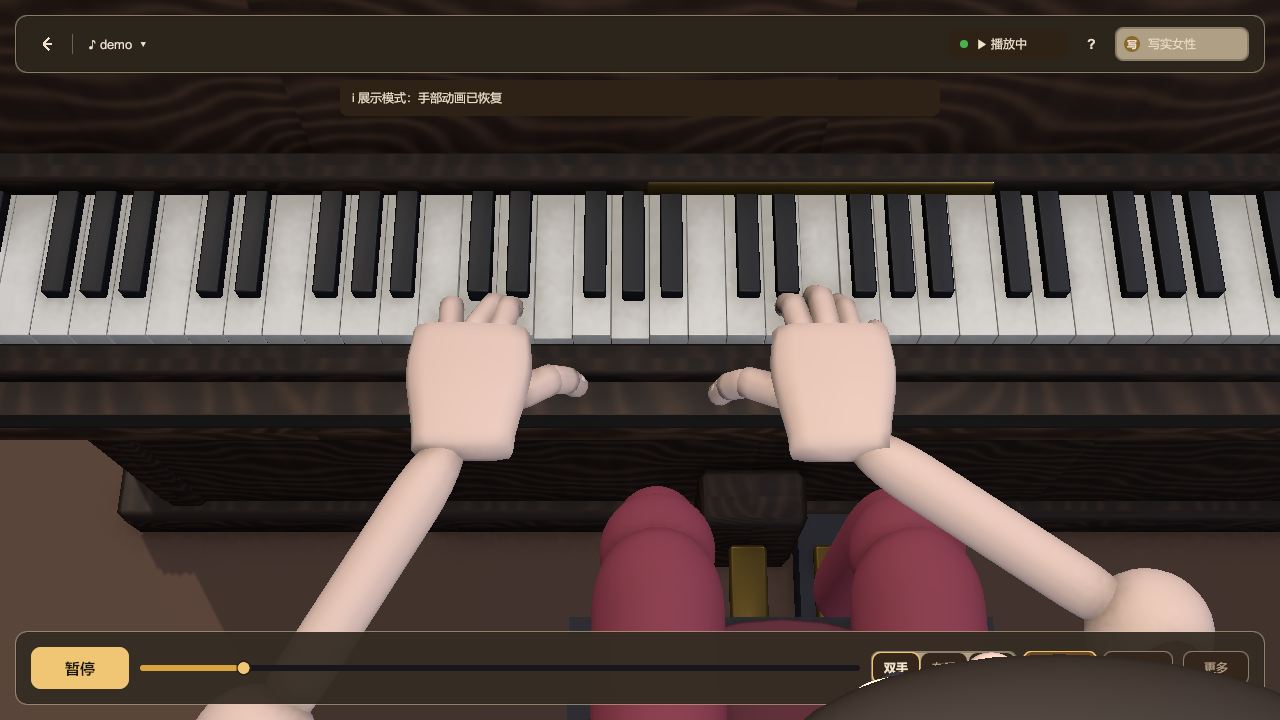
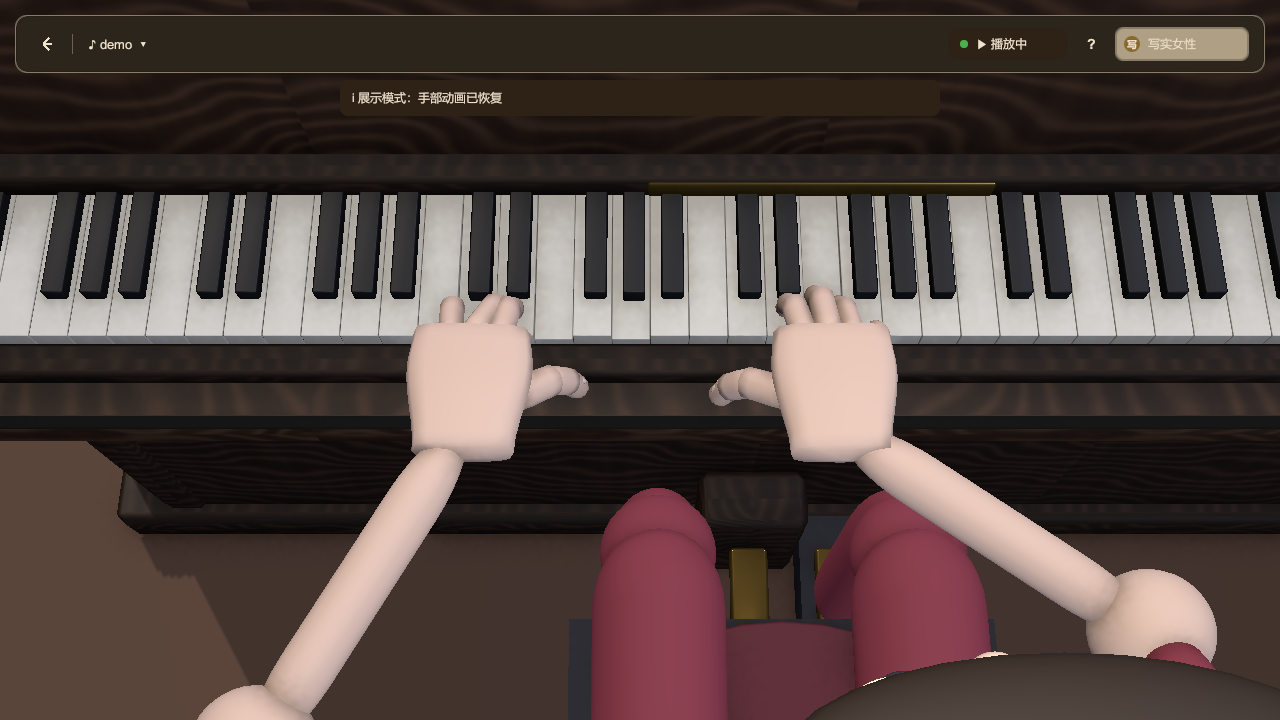
docs(hands): 记录 H0 追加的两次证伪与耦合结论
- 掌位竖直修正（MaxPalmCorrectionY 22mm）：R2 20.9→24.6mm、R4 −0.3→+5.9mm，更差，随实验回退；
- 黑键抬手（BlackKeyHandLift 11mm）：R2 20.9→21.0mm，无效，参数保留默认 0 并在注释记数据；
- 累计四条假说被否（铰链平面/黑键指腹抬升/掌位竖直修正/黑键抬手），
  说明问题不在比例控制层，而在「先定掌位再解指骨」的顺序：H3 必须做解析式最小二乘，不能做增益闭环。

验证：EditMode 485/485、PlayMode 131 过 / 5 跳 / 0 败。

diff --git a/Assets/Scripts/Avatar/HandIKController.cs b/Assets/Scripts/Avatar/HandIKController.cs
@@ -143,6 +143,12 @@ namespace PianoTeacher3D.Avatar
         public float PalmCorrectionSpeed = 14f;
         /// <summary>手掌修正增益（0..1）：把平均误差的多少比例用于平移手掌。</summary>
         [Range(0f, 1f)] public float PalmCorrectionGain = 0.8f;
+        /// <summary>
+        /// 手掌修正的竖直上限（米）。手掌修正原本只修 XZ，竖直误差全留给手指弯曲；
+        /// 但实测竖直分量占绝对主导（20.9 mm 里 20.5 mm），手指靠弯曲解不出来。
+        /// 这里给竖直分量一个更小的独立上限，避免把手腕抬到手指够不到键面。
+        /// </summary>
+        public float MaxPalmCorrectionY = 0.022f;
         public float TargetMaxSpeed = 4.0f;       // 大跳变时的目标变化速率上限（米/秒）；0 = 不限速
         public float TargetJumpThreshold = 0.20f; // 目标变化小于该值（同手位内旋律跳进）时直接精确对齐
 
@@ -239,6 +245,8 @@ namespace PianoTeacher3D.Avatar
         /// </para>
         /// </summary>
         public float BlackKeyTargetLift = 0f;
+        /// <summary>按住黑键时抬腕的高度（米）：黑键键面比白键高 22 mm，试 11 mm 实测无效（R2 残差 20.9→21.0 mm），默认关。</summary>
+        public float BlackKeyHandLift = 0f;
 
         private const int MaxRecordedIssues = 8;
 
@@ -811,6 +819,11 @@ namespace PianoTeacher3D.Avatar
             if (WristHeightAdaptation)
                 rawTarget.y += leftHand ? _leftWristHeightAdapt : _rightWristHeightAdapt;
 
+            // 黑键抬手（H4-lite，2026-11-05）：黑键键面比白键高 22 mm，实测按住黑键时指尖比键面低 20 mm 左右。
+            // 抬「指尖目标」无效（试过 12 mm，残差 20.9→21.1），因为目标抬高只会让手指更伸展；
+            // 真实演奏是把手抬起来越过白键去够黑键，所以这里直接抬腕目标。
+            if (hasTarget && Piano.PianoKeyMap.IsBlackKey(targetPitch.Value))
+                rawTarget.y += BlackKeyHandLift;
             // 指尖贴键的手掌修正（方案 5.3 第二阶段）：把手腕朝「消灭指尖平均误差」的方向平移。
             // 只修正 XZ（高度由手指弯曲负责），并夹在键盘允许范围内，避免把手腕推出琴键区触发姿态钳制。
             rawTarget += leftHand ? _leftPalmCorrection : _rightPalmCorrection;

diff --git a/Docs/screenshots/manifest.md b/Docs/screenshots/manifest.md
@@ -5,7 +5,7 @@
 > 对应文档：方案 **11.2 视觉回归**（10 个固定截图/场景用例）、**11.3/11.4 验收与自动化**、
 > **15 发布前检查清单**；审查 **3.2 视角可用性**、**6.1 画面基线组合 V01–V09**、**6.2 相机验收清单**。
 
-- 生成时间：2026-11-05 23:19:15
+- 生成时间：2026-11-06 00:03:46
 - 生成主机 Unity 版本：2022.3.22f1c1
 - 项目版本锁定值：2022.3.22f1c1（来源 ProjectSettings/ProjectVersion.txt）
 - 运行平台 / 图形设备：WindowsEditor / Direct3D11
@@ -25,35 +25,35 @@
 |---|---|---|---|---|---|---|---|---|---|---|
 | 01_full.png | 方案 11.2-2 | 写实女性（索引 0） | demo | 0.00 | 全景（Mode=Full, ModeLabel=全景）自由观察=False | 640×480（请求 1280×720） | 2022.3.22f1c1 | 2022.3.22f1c1 | 标准全景：键盘完整、低音端无遮挡、人物完整入画 | — |
 | 02_closeup.png | 方案 11.2-3 | 写实女性（索引 0） | demo | 0.00 | 手部特写（Mode=Closeup, ModeLabel=手部特写）自由观察=False | 640×480（请求 1280×720） | 2022.3.22f1c1 | 2022.3.22f1c1 | 手部特写（白键旋律）：掌心、指尖与相应琴键同时可见 | 高亮默认关闭，特写按活动手范围取景 |
-| 03_playing.png | 方案 11.2-2 | 写实女性（索引 0） | demo | 4.22 | 全景（Mode=Full, ModeLabel=全景）自由观察=False | 640×480（请求 1280×720） | 2022.3.22f1c1 | 2022.3.22f1c1 | 播放中全景：琴键动作与高亮同步、人物无穿模 | — |
-| 04_practice_left.png | 方案 11.2-6 | 写实女性（索引 0） | demo | 6.07 | 全景（Mode=Full, ModeLabel=全景）自由观察=False | 640×480（请求 1280×720） | 2022.3.22f1c1 | 2022.3.22f1c1 | 分手练习开启：相机聚焦活动手 | — |
+| 03_playing.png | 方案 11.2-2 | 写实女性（索引 0） | demo | 4.29 | 全景（Mode=Full, ModeLabel=全景）自由观察=False | 640×480（请求 1280×720） | 2022.3.22f1c1 | 2022.3.22f1c1 | 播放中全景：琴键动作与高亮同步、人物无穿模 | — |
+| 04_practice_left.png | 方案 11.2-6 | 写实女性（索引 0） | demo | 6.17 | 全景（Mode=Full, ModeLabel=全景）自由观察=False | 640×480（请求 1280×720） | 2022.3.22f1c1 | 2022.3.22f1c1 | 分手练习开启：相机聚焦活动手 | — |
 | 05_avatar_man.png | 方案 11.2-8 | 写实男性（索引 1） | demo | 7.50 | 全景（Mode=Full, ModeLabel=全景）自由观察=False | 640×480（请求 1280×720） | 2022.3.22f1c1 | 2022.3.22f1c1 | 不同人物切换后的同一机位：构图规律一致 | — |
 | 06_avatar_cartoon.png | 方案 11.2-8 | 卡通角色（索引 2） | demo | 7.50 | 全景（Mode=Full, ModeLabel=全景）自由观察=False | 640×480（请求 1280×720） | 2022.3.22f1c1 | 2022.3.22f1c1 | 不同人物切换后的同一机位：构图规律一致 | — |
-| V01_closeup_chord.png | 审查 6.1 V01 / 方案 11.2-4 | 写实女性（索引 2） | demo | 1.15 | 手部特写（Mode=Closeup, ModeLabel=手部特写）自由观察=False | 640×480（请求 1280×720） | 2022.3.22f1c1 | 2022.3.22f1c1 | 掌心、指尖、琴键可见；指法自然 | 曲内同时发声 4 音的中音区和弦（t=0.00s） |
-| V02_closeup_wide_leap.png | 审查 6.1 V02 / 3.2-1 | 写实女性（索引 2） | demo | 2.62 | 手部特写（Mode=Closeup, ModeLabel=手部特写）自由观察=False | 640×480（请求 1280×720） | 2022.3.22f1c1 | 2022.3.22f1c1 | 动态取景范围与阻尼：两手分开时画面不突然缩放 | 曲内 0.5s 窗口最大音域跨度 19 半音（pitch 48–67，t=1.50s）；内置示例曲音域有限，跨度不足属曲目内容限制 |
+| V01_closeup_chord.png | 审查 6.1 V01 / 方案 11.2-4 | 写实女性（索引 2） | demo | 1.11 | 手部特写（Mode=Closeup, ModeLabel=手部特写）自由观察=False | 640×480（请求 1280×720） | 2022.3.22f1c1 | 2022.3.22f1c1 | 掌心、指尖、琴键可见；指法自然 | 曲内同时发声 4 音的中音区和弦（t=0.00s） |
+| V02_closeup_wide_leap.png | 审查 6.1 V02 / 3.2-1 | 写实女性（索引 2） | demo | 2.61 | 手部特写（Mode=Closeup, ModeLabel=手部特写）自由观察=False | 640×480（请求 1280×720） | 2022.3.22f1c1 | 2022.3.22f1c1 | 动态取景范围与阻尼：两手分开时画面不突然缩放 | 曲内 0.5s 窗口最大音域跨度 19 半音（pitch 48–67，t=1.50s）；内置示例曲音域有限，跨度不足属曲目内容限制 |
 | V03_full_arm_motion.png | 审查 6.1 V03 | 写实男性（索引 1） | demo | 6.60 | 全景（Mode=Full, ModeLabel=全景）自由观察=False | 640×480（请求 1280×720） | 2022.3.22f1c1 | 2022.3.22f1c1 | 坐姿、肩臂、完整键盘 | 曲内最大音程跳进 19 半音（t=3.50s），手臂运动在该片段最明显 |
-| V04_full_cartoon.png | 审查 6.1 V04 | 卡通角色（索引 2） | demo | 6.14 | 全景（Mode=Full, ModeLabel=全景）自由观察=False | 640×480（请求 1280×720） | 2022.3.22f1c1 | 2022.3.22f1c1 | 风格一致与取景适配 | 中等速度片段（曲目 40% 处） |
-| V05_left_hand_only.png | 审查 6.1 V05 / 3.2-3 | 写实女性（索引 0） | demo | 1.12 | 手部特写（Mode=Closeup, ModeLabel=手部特写）自由观察=False | 640×480（请求 1280×720） | 2022.3.22f1c1 | 2022.3.22f1c1 | 相机聚焦活动手 | 左手独立音型（t=0.00s） |
-| V06_right_hand_only.png | 审查 6.1 V06 / 3.2-4 | 写实女性（索引 0） | demo | 1.10 | 手部特写（Mode=Closeup, ModeLabel=手部特写）自由观察=False | 640×480（请求 1280×720） | 2022.3.22f1c1 | 2022.3.22f1c1 | 相机聚焦活动手 | 右手独立音型（t=0.00s） |
-| V07_free_orbit_paused.png | 审查 6.1 V07 | 写实女性（索引 0） | demo | 1.10 | 自由观察（Mode=Free, ModeLabel=自由观察）自由观察=True | 640×480（请求 1280×720） | 2022.3.22f1c1 | 2022.3.22f1c1 | 旋转/缩放、UI 鼠标操作边界 | 测试环境无法注入真实鼠标右键拖动：本图记录「进入自由观察 → 暂停」后的初始构图（进入时不跳变） |
-| V08_switch_settled.png | 审查 6.1 V08 | 写实女性（索引 0） | demo | 7.50 | 全景（Mode=Full, ModeLabel=全景）自由观察=False | 640×480（请求 1280×720） | 2022.3.22f1c1 | 2022.3.22f1c1 | 最终构图稳定、时间轴连续 | 播放中连续切换视角 5 次后等待 3s：IsTransitioning=True（期望 False）、时间从 4.69s 推进到 7.50s（时间轴连续） |
-| V09_closeup_loop.png | 审查 6.1 V09 | 写实女性（索引 0） | demo | 2.67 | 手部特写（Mode=Closeup, ModeLabel=手部特写）自由观察=False | 640×480（请求 1280×720） | 2022.3.22f1c1 | 2022.3.22f1c1 | 循环跳转后手位和相机不追旧目标 | A-B 循环 [2.63s, 3.23s]，IsLooping=True；等待跨越 B 点后再等 1.6s，此刻时间 2.65s |
+| V04_full_cartoon.png | 审查 6.1 V04 | 卡通角色（索引 2） | demo | 6.12 | 全景（Mode=Full, ModeLabel=全景）自由观察=False | 640×480（请求 1280×720） | 2022.3.22f1c1 | 2022.3.22f1c1 | 风格一致与取景适配 | 中等速度片段（曲目 40% 处） |
+| V05_left_hand_only.png | 审查 6.1 V05 / 3.2-3 | 写实女性（索引 0） | demo | 1.10 | 手部特写（Mode=Closeup, ModeLabel=手部特写）自由观察=False | 640×480（请求 1280×720） | 2022.3.22f1c1 | 2022.3.22f1c1 | 相机聚焦活动手 | 左手独立音型（t=0.00s） |
+| V06_right_hand_only.png | 审查 6.1 V06 / 3.2-4 | 写实女性（索引 0） | demo | 1.11 | 手部特写（Mode=Closeup, ModeLabel=手部特写）自由观察=False | 640×480（请求 1280×720） | 2022.3.22f1c1 | 2022.3.22f1c1 | 相机聚焦活动手 | 右手独立音型（t=0.00s） |
+| V07_free_orbit_paused.png | 审查 6.1 V07 | 写实女性（索引 0） | demo | 1.11 | 自由观察（Mode=Free, ModeLabel=自由观察）自由观察=True | 640×480（请求 1280×720） | 2022.3.22f1c1 | 2022.3.22f1c1 | 旋转/缩放、UI 鼠标操作边界 | 测试环境无法注入真实鼠标右键拖动：本图记录「进入自由观察 → 暂停」后的初始构图（进入时不跳变） |
+| V08_switch_settled.png | 审查 6.1 V08 | 写实女性（索引 0） | demo | 7.50 | 全景（Mode=Full, ModeLabel=全景）自由观察=False | 640×480（请求 1280×720） | 2022.3.22f1c1 | 2022.3.22f1c1 | 最终构图稳定、时间轴连续 | 播放中连续切换视角 5 次后等待 3s：IsTransitioning=True（期望 False）、时间从 4.71s 推进到 7.50s（时间轴连续） |
+| V09_closeup_loop.png | 审查 6.1 V09 | 写实女性（索引 0） | demo | 2.69 | 手部特写（Mode=Closeup, ModeLabel=手部特写）自由观察=False | 640×480（请求 1280×720） | 2022.3.22f1c1 | 2022.3.22f1c1 | 循环跳转后手位和相机不追旧目标 | A-B 循环 [2.63s, 3.23s]，IsLooping=True；等待跨越 B 点后再等 1.6s，此刻时间 2.65s |
 | V10_mainmenu.png | 方案 11.2-1 | 不适用（主菜单场景） | 不适用（未进入课程） | — | 不适用（主菜单场景无 CameraModeController） | 640×480（请求 1280×720） | 2022.3.22f1c1 | 2022.3.22f1c1 | 主菜单空状态可操作：导入入口可见、无曲目时不显示可播放按钮 | 曲库有 1 首示例曲 → 主菜单显示曲目卡片；空曲库态需清空 Assets/StreamingAssets/Songs 后重跑才能复现（本次未生成空状态图） |
-| V11_highlight_on.png | 方案 11.2-5 | 写实女性（索引 0） | demo | 0.45 | 全景（Mode=Full, ModeLabel=全景）自由观察=False | 640×480（请求 1280×720） | 2022.3.22f1c1 | 2022.3.22f1c1 | 颜色语义正确（暖金=预提示、左蓝/右橙=发声），且高亮不遮挡手部 | 高亮模式 Both（暖金预提示 + 蓝/橙发声）；为同时呈现两种提示，临时把预提示提前量设为 1.2s（原 0.6s，截图后还原） |
+| V11_highlight_on.png | 方案 11.2-5 | 写实女性（索引 0） | demo | 0.42 | 全景（Mode=Full, ModeLabel=全景）自由观察=False | 640×480（请求 1280×720） | 2022.3.22f1c1 | 2022.3.22f1c1 | 颜色语义正确（暖金=预提示、左蓝/右橙=发声），且高亮不遮挡手部 | 高亮模式 Both（暖金预提示 + 蓝/橙发声）；为同时呈现两种提示，临时把预提示提前量设为 1.2s（原 0.6s，截图后还原） |
 | V12_analysis_expanded.png | 方案 11.2-7 | 写实女性（索引 0） | demo | 7.50 | 全景（Mode=Full, ModeLabel=全景）自由观察=False | 640×480（请求 1280×720） | 2022.3.22f1c1 | 2022.3.22f1c1 | 分析面板展开；动作质量默认折叠在「开发诊断」区 | 曲目分析面板展开=True、开发诊断展开=True（通过按钮 onClick 触发，未注入鼠标事件）；展开诊断后主画面仍未被过度覆盖（本次仅截图，遮挡断言见 CameraVisibilityTests 3.2-2） |
 | V13_teaching_mode.png | 新增：教学模式 / 展示模式 | 写实女性（索引 0） | demo | 1.04 | 手部特写（Mode=Closeup, ModeLabel=手部特写）自由观察=False | 640×480（请求 1280×720） | 2022.3.22f1c1 | 2022.3.22f1c1 | 教学模式：手部动画隐藏，只有被按下的琴键高亮（左手冷蓝 · 右手暖橙） | 显示模式=教学，手部可见=False，当前按下 4 个琴键、高亮 4 个琴键 |
-| V14_showcase_mode.png | 新增：教学模式 / 展示模式 | 写实女性（索引 0） | demo | 1.08 | 手部特写（Mode=Closeup, ModeLabel=手部特写）自由观察=False | 640×480（请求 1280×720） | 2022.3.22f1c1 | 2022.3.22f1c1 | 展示模式：完整手部动画（与 V13 同机位、同曲目时刻，便于逐帧对照） | 显示模式=展示，手部可见=True，当前按下 4 个琴键 |
+| V14_showcase_mode.png | 新增：教学模式 / 展示模式 | 写实女性（索引 0） | demo | 1.04 | 手部特写（Mode=Closeup, ModeLabel=手部特写）自由观察=False | 640×480（请求 1280×720） | 2022.3.22f1c1 | 2022.3.22f1c1 | 展示模式：完整手部动画（与 V13 同机位、同曲目时刻，便于逐帧对照） | 显示模式=展示，手部可见=True，当前按下 4 个琴键 |
 | V15_rocketbox_character.png | 新增：写实角色（Rocketbox） | 写实女性（索引 0） | demo | 0.00 | 全景（Mode=Full, ModeLabel=全景）自由观察=False | 640×480（请求 1280×720） | 2022.3.22f1c1 | 2022.3.22f1c1 | 写实女性全景：皮肤与头发贴图完整、无白模、无碎片、手指自然弯曲 | 激活成功=True，角色=rocketbox.female01 |
-| V16_closeup_playing.png | 写实化三期 / 手部动态 | 写实女性（索引 2） | demo | 0.39 | 手部特写（Mode=Closeup, ModeLabel=手部特写）自由观察=False | 640×480（请求 1280×720） | 2022.3.22f1c1 | 2022.3.22f1c1 | 演奏中不暂停：指节弯曲与指尖接触可见（非冻结手型） | 曲内同时发声 4 音的中音区和弦（t=0.00s） |
+| V16_closeup_playing.png | 写实化三期 / 手部动态 | 写实女性（索引 2） | demo | 0.36 | 手部特写（Mode=Closeup, ModeLabel=手部特写）自由观察=False | 640×480（请求 1280×720） | 2022.3.22f1c1 | 2022.3.22f1c1 | 演奏中不暂停：指节弯曲与指尖接触可见（非冻结手型） | 曲内同时发声 4 音的中音区和弦（t=0.00s） |
 | V17_rocketbox_closeup_idle.png | v4 阶段 0 / 真实默认体验 | 写实女性（索引 0） | demo | 0.00 | 手部特写（Mode=Closeup, ModeLabel=手部特写）自由观察=False | 640×480（请求 1280×720） | 2022.3.22f1c1 | 2022.3.22f1c1 | 真人角色手部特写（空闲）：手掌、五指、琴键同时可见；头/躯干不遮挡键面 | Rocketbox 默认真人角色，停止态；用于判断手型与遮挡 |
 | V18_rocketbox_closeup_playing.png | v4 阶段 0 / 真实默认体验 | 写实女性（索引 0） | demo | 0.39 | 手部特写（Mode=Closeup, ModeLabel=手部特写）自由观察=False | 640×480（请求 1280×720） | 2022.3.22f1c1 | 2022.3.22f1c1 | 真人角色手部特写（演奏中，不暂停）：指节弯曲与指尖接触可见 | t=0.00s，播放中抓帧 |
 | V19_rocketbox_full.png | v4 阶段 0 / 真实默认体验 | 写实女性（索引 0） | demo | 0.00 | 全景（Mode=Full, ModeLabel=全景）自由观察=False | 640×480（请求 1280×720） | 2022.3.22f1c1 | 2022.3.22f1c1 | 真人角色全景：坐姿、琴凳、琴体、键面完整；无穿模与悬空 | Rocketbox 默认真人角色，停止态 |
-| V20_rocketbox_pedal.png | v4 阶段 1 / 延音踏板 | 写实女性（索引 0） | demo | 1.52 | 全景（Mode=Full, ModeLabel=全景）自由观察=False | 640×480（请求 1280×720） | 2022.3.22f1c1 | 2022.3.22f1c1 | 真人角色演奏中：延音踏板踩下时右脚脚尖抬起、脚跟着地 | 与 V19 同机位，播放中命中踏板区间 |
+| V20_rocketbox_pedal.png | v4 阶段 1 / 延音踏板 | 写实女性（索引 0） | demo | 1.49 | 全景（Mode=Full, ModeLabel=全景）自由观察=False | 640×480（请求 1280×720） | 2022.3.22f1c1 | 2022.3.22f1c1 | 真人角色演奏中：延音踏板踩下时右脚脚尖抬起、脚跟着地 | 与 V19 同机位，播放中命中踏板区间 |
 | V21_avatar_select.png | v4 阶段 1 / 角色库 | 写实女性（索引 0） | demo | 0.00 | 全景（Mode=Full, ModeLabel=全景）自由观察=False | 640×480（请求 1280×720） | 2022.3.22f1c1 | 2022.3.22f1c1 | 三张竖版人像卡：写实女性 / 写实男性 / 儿童，缩略图取自模型头部贴图 | 打开角色库面板后截图（面板默认收起） |
 | V24_menu_characters.png | 主菜单 / 角色浮层 | 不适用（主菜单浮层） | 不适用（未进入课程） | — | 不适用（主菜单场景无 CameraModeController） | 640×480（请求 1280×720） | 2022.3.22f1c1 | 2022.3.22f1c1 | 三张人像预览卡（写实女性 / 写实男性 / 儿童）+「进入课程后可切换」说明 | 主菜单点「角色」入口卡后截图 |
 | V25_menu_settings.png | 主菜单 / 设置浮层 | 不适用（主菜单浮层） | 不适用（未进入课程） | — | 不适用（主菜单场景无 CameraModeController） | 640×480（请求 1280×720） | 2022.3.22f1c1 | 2022.3.22f1c1 | 画质三档 chips（取自 QualitySettings.names）+ 全屏开关 + 快捷键说明 | 主菜单点「设置」入口卡后截图 |
 | V26_menu_songs.png | 主菜单 / 选曲浮层 | 不适用（主菜单浮层） | 不适用（未进入课程） | — | 不适用（主菜单场景无 CameraModeController） | 640×480（请求 1280×720） | 2022.3.22f1c1 | 2022.3.22f1c1 | 曲目清单（最多 8 行，含文件大小）+ 底部「导入 MIDI…」 | 主菜单点「选曲」入口卡后截图 |
-| V27_more_panel.png | 方案 3.1 底栏单行 | 写实女性（索引 0） | demo | 4.65 | 全景（Mode=Full, ModeLabel=全景）自由观察=False | 640×480（请求 1280×720） | 2022.3.22f1c1 | 2022.3.22f1c1 | 低频工具收进「更多」浮层，底栏只留 播放 / 时间 / 进度 / 手型 / 速度 / 循环 | 浮层贴底栏右上角，两行工具：视角·重播·高亮·节拍器 / 展示·分析·拍点·循环范围 |
+| V27_more_panel.png | 方案 3.1 底栏单行 | 写实女性（索引 0） | demo | 4.57 | 全景（Mode=Full, ModeLabel=全景）自由观察=False | 640×480（请求 1280×720） | 2022.3.22f1c1 | 2022.3.22f1c1 | 低频工具收进「更多」浮层，底栏只留 播放 / 时间 / 进度 / 手型 / 速度 / 循环 | 浮层贴底栏右上角，两行工具：视角·重播·高亮·节拍器 / 展示·分析·拍点·循环范围 |
 
 ## 如何新增 / 更新基线
 

diff --git a/Docs/superpowers/plans/2026-11-05-master-plan-hand-contact-and-beyond.md b/Docs/superpowers/plans/2026-11-05-master-plan-hand-contact-and-beyond.md
@@ -115,6 +115,28 @@ A/B 实测 0 → 1 后 R2 残差 20.6 → 20.9 mm，**无收益**；参数保留
 H3（掌位闭环，修拇指够不到）→ H2（解析 IK）→ H1（弯曲平面，降级为可选）。
 `FingertipErrorTolerance` 35 → 10 mm **暂缓**：它会整体改变 HitRate 口径，必须与基线重采同一次提交。
 
+### H0 追加：再证伪两条「便宜杠杆」（2026-11-05 晚）
+
+H0 的结论指向「手掌位置解不出来」，于是先试了两个成本最低的手腕侧杠杆，**都无效**：
+
+| 尝试 | 做法 | 实测（bench_chords 静置帧） | 结论 |
+|---|---|---|---|
+| 掌位竖直修正 | `UpdatePalmCorrection` 原本 `want.y = 0f`（只修 XZ），放开为 ±22 mm | R2 20.9 → **24.6 mm**、R4 −0.3 → **+5.9 mm** | 更差。掌位一抬，指骨局部解跟着重算，两者互相打架 |
+| 黑键抬手 | 目标键为黑键时抬腕 11 mm（半键高） | R2 20.9 → **21.0 mm** | 无效 |
+
+加上前面两条，一共**四个假说被实测否掉**：铰链平面（20.9）、黑键指尖目标抬升（21.1）、掌位竖直修正（24.6，更差）、黑键抬手（21.0）。
+
+**这四条共同说明**：问题不在「往哪儿推多少」这种比例控制层面，而在
+**「先有手型、再反推掌位」的顺序反了**。现在每帧是：键位 → 腕目标（启发式）→ 手臂 IK → 逐指 CCD。
+腕目标一旦不准，手指只能在不合理的手掌位姿里拼命弯曲，任何事后微调都会被指骨解算抵消。
+
+因此 H3（掌位闭环）必须按**解析式**做，而不是增益式：对当前指法分组，先求「让所有目标都落在各自可达球面内」
+的手掌六自由度最小二乘解（位置 3 + 朝向里的 2 个有效自由度，滚转由按指约束），再固定手掌解指骨。
+增益式闭环（本次实测）在闭环内会与 CCD 形成正反馈，越修越偏。
+
+`AimPlaneUpBlend`（默认 0）、`BlackKeyHandLift`（默认 0）、`MaxPalmCorrectionY`（已删除）三个开关保留与否：
+前两个留作后续 H1/H4 的试验开关并在注释里写明实测数据，`MaxPalmCorrectionY` 随实验一起回退。
+
 ### H1 手指弯曲平面可调（1.0 人日，P0）
 
 给 MCP 增加一个**外展/内收自由度**（绕掌心法线旋转 0–12°），让“手指的弯曲平面”能穿过目标点：

diff --git a/Docs/perf/sampling.md b/Docs/perf/sampling.md
@@ -107,7 +107,7 @@
 <!-- SECTION:resource-load:BEGIN -->
 ### 资源加载采样（方案 11.4「资源加载耗时和失败率采样」）
 
-- 时间：2026-11-05 23:17:33
+- 时间：2026-11-06 00:01:56
 - Unity：2022.3.22f1c1
 - 图形设备：Direct3D11（NVIDIA GeForce RTX 4060 Laptop GPU）
 - 分辨率：640×480 @ 96 dpi
@@ -115,11 +115,11 @@
 - 平台 / 系统：WindowsEditor / Windows 11  (10.0.26200) 64bit
 
 - 曲目目录：`StreamingAssets/Songs`；曲目数：1
-- 最慢单曲：25.1 ms；失败数：0
+- 最慢单曲：43.7 ms；失败数：0
 
 | 曲目 | 加载耗时 (ms) | 结果 |
 |---|---|---|
-| demo.mid | 25.1 | 成功 |
+| demo.mid | 43.7 | 成功 |
 
 **口径说明**：耗时用 `System.Diagnostics.Stopwatch` 包裹 `LessonSessionController.LoadSong`，包含校验 + 解析 + 一次性提交；示例曲为毫秒级，5 秒上限只用于捕获卡死，不代表目标设备上的加载性能。
 <!-- SECTION:resource-load:END -->

diff --git a/Docs/perf/environments.md b/Docs/perf/environments.md
@@ -31,7 +31,7 @@
 <!-- SECTION:local-check:BEGIN -->
 ### 本机自检（由 Environment_Matrix_Checklist 自动写入）
 
-- 时间：2026-11-05 23:15:15
+- 时间：2026-11-05 23:59:30
 - Unity：2022.3.22f1c1
 - 图形设备：Direct3D11（NVIDIA GeForce RTX 4060 Laptop GPU）
 - 分辨率：640×480 @ 96 dpi
